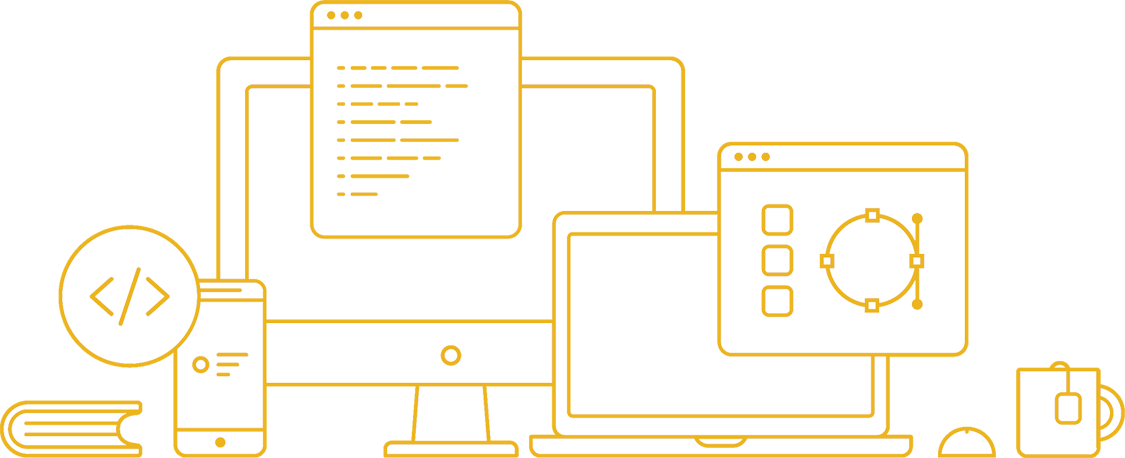
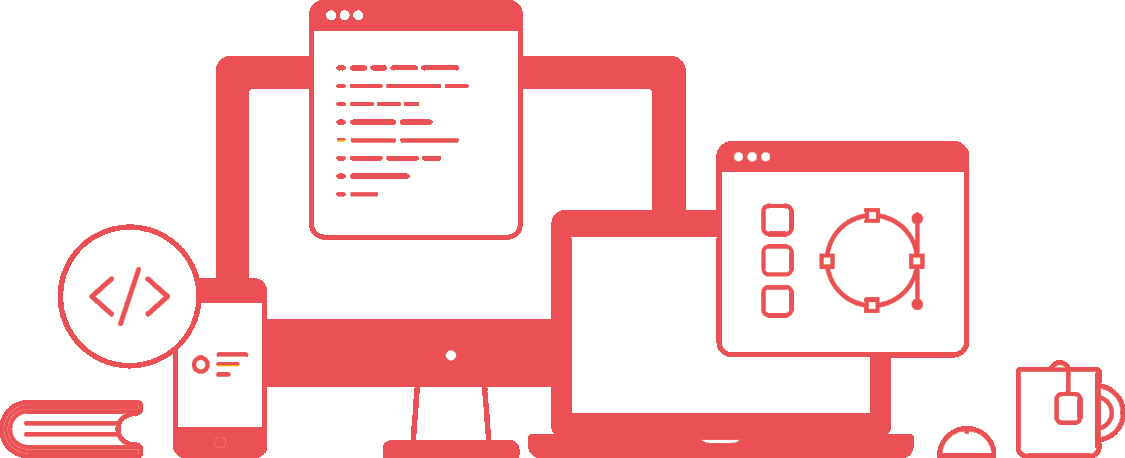
edit primary color

diff --git a/css/style.css b/css/style.css
@@ -22,7 +22,7 @@
 
 /* regole generali */
 span {
-  color: orange;
+  color: #EB5154;
   font-size: 18px;
   font-weight: 400;
 }
@@ -110,7 +110,7 @@ header .ms_navbar {
 .ms_presentation-body{
   height: 600px;
   width: 100%;
-  background: orange;
+  background: #EB5154;
 
 
 }
@@ -192,7 +192,7 @@ header .ms_navbar {
 .card-item i {
   font-size: 110px;
   padding: 30px 0;
-  color: orange;
+  color: #EB5154;
 }
   .card-text ul {
     padding: 15px 0;
@@ -280,7 +280,7 @@ header .ms_navbar {
   .ms_presentation-body{
     height: 100%;
     width: 100%;
-    background: orange;
+    background: #EB5154;
 
 
   }

diff --git a/index.html b/index.html
@@ -68,7 +68,7 @@
             <p>I design and code beautifully simple things, and I love what I do.</p>
 
             <div class="ms_avatar-container">
-              <img src="img/avata3.png" alt="">
+              <img src="img/avata1.png" alt="">
             </div>
 
             <div class="ms_texture-image-container">
